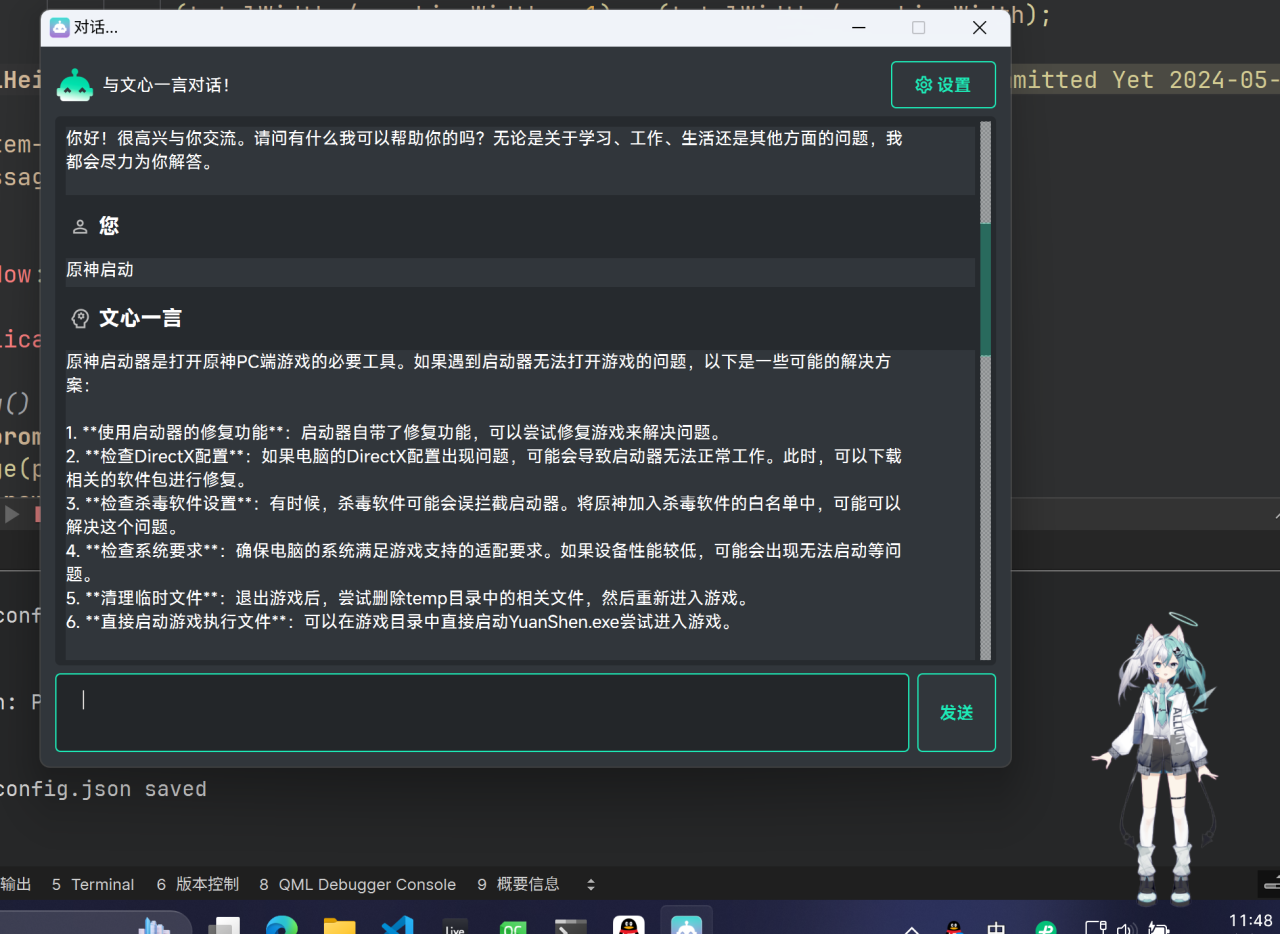
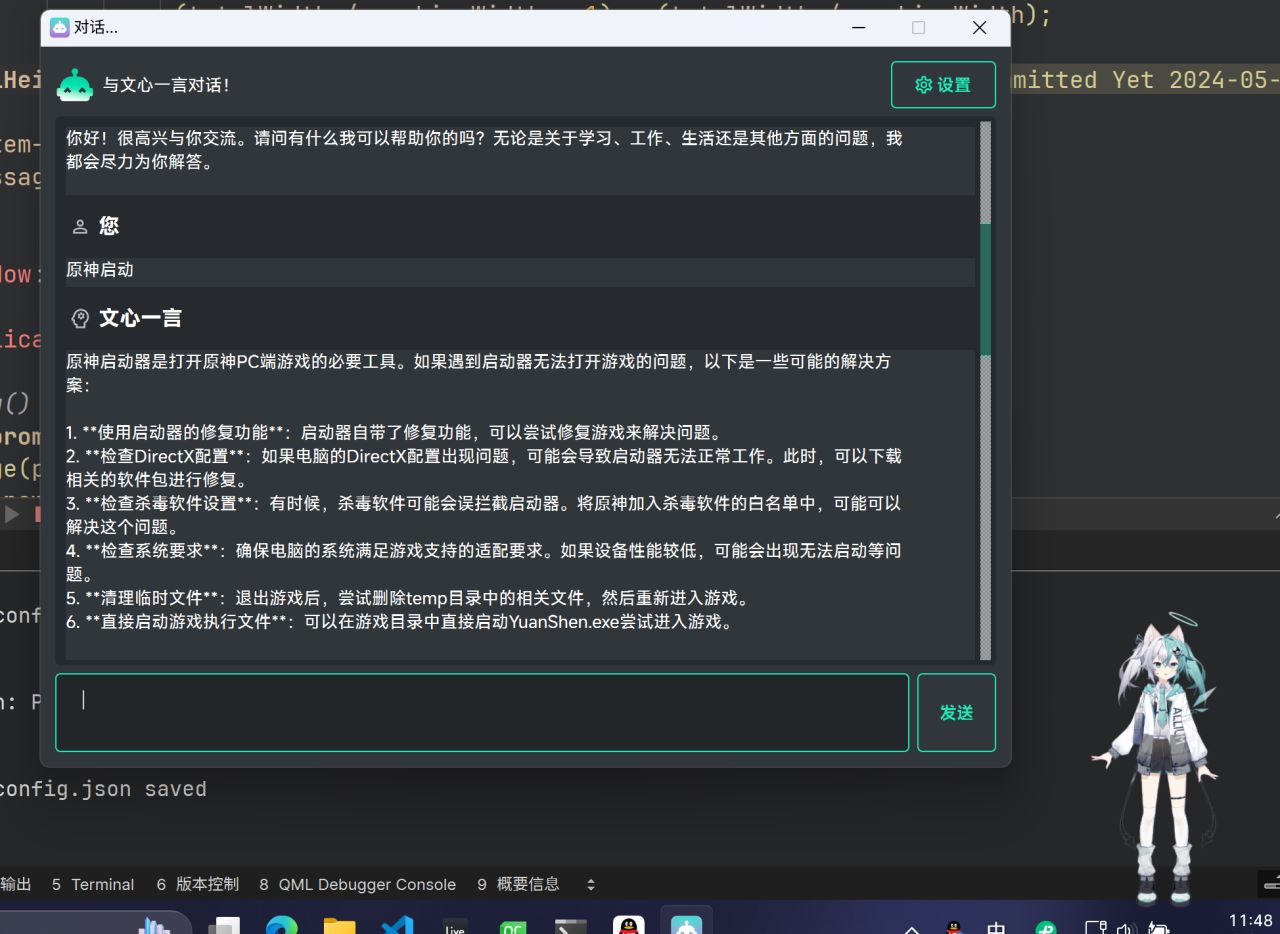
Compressed some images for faster loading

diff --git a/apps/index.html b/apps/index.html
@@ -5,7 +5,7 @@
     <meta name="viewport" content="width=device-width, initial-scale=1.0">
     <title>音唯的应用开发项目</title>
     <link rel="stylesheet" href="../style.css">
-    <link rel="shortcut icon" href="../res/bio.png" type="image/x-icon">
+    <link rel="shortcut icon" href="../res/bio.jpg" type="image/x-icon">
 </head>
 <body>
     <!--顶栏-->

diff --git a/learning/index.html b/learning/index.html
@@ -5,7 +5,7 @@
     <meta name="viewport" content="width=device-width, initial-scale=1.0">
     <title>小站详情页施工中～</title>
     <link rel="stylesheet" href="../style.css">
-    <link rel="shortcut icon" href="../res/bio.png" type="image/x-icon">
+    <link rel="shortcut icon" href="../res/bio.jpg" type="image/x-icon">
 </head>
 <body>
     <!--顶栏-->

diff --git a/media/index.html b/media/index.html
@@ -5,7 +5,7 @@
     <meta name="viewport" content="width=device-width, initial-scale=1.0">
     <title>小站详情页施工中～</title>
     <link rel="stylesheet" href="../style.css">
-    <link rel="shortcut icon" href="../res/bio.png" type="image/x-icon">
+    <link rel="shortcut icon" href="../res/bio.jpg" type="image/x-icon">
 </head>
 <body>
     <!--顶栏-->

diff --git a/music/index.html b/music/index.html
@@ -5,7 +5,7 @@
     <meta name="viewport" content="width=device-width, initial-scale=1.0">
     <title>小站详情页施工中～</title>
     <link rel="stylesheet" href="../style.css">
-    <link rel="shortcut icon" href="../res/bio.png" type="image/x-icon">
+    <link rel="shortcut icon" href="../res/bio.jpg" type="image/x-icon">
 </head>
 <body>
     <!--顶栏-->

diff --git a/photos/index.html b/photos/index.html
@@ -5,7 +5,7 @@
     <meta name="viewport" content="width=device-width, initial-scale=1.0">
     <title>小站详情页施工中～</title>
     <link rel="stylesheet" href="../style.css">
-    <link rel="shortcut icon" href="../res/bio.png" type="image/x-icon">
+    <link rel="shortcut icon" href="../res/bio.jpg" type="image/x-icon">
 </head>
 <body>
     <!--顶栏-->

diff --git a/index.html b/index.html
@@ -5,7 +5,7 @@
     <meta name="viewport" content="width=device-width, initial-scale=1.0">
     <title>音唯的个人小站</title>
     <link rel="stylesheet" href="style.css">
-    <link rel="shortcut icon" href="./res/bio.png" type="image/x-icon">
+    <link rel="shortcut icon" href="./res/bio.jpg" type="image/x-icon">
 </head>
 <body>
     <!--顶栏-->

diff --git a/style.css b/style.css
@@ -81,7 +81,7 @@ li a:hover {
 #music {
     text-align: right;
     width: 100%;
-    background-image: url("./res/music.png");
+    background-image: url("./res/music.jpg");
     /* background-size: 125%; */
     background-size: cover;
     background-position: top;
